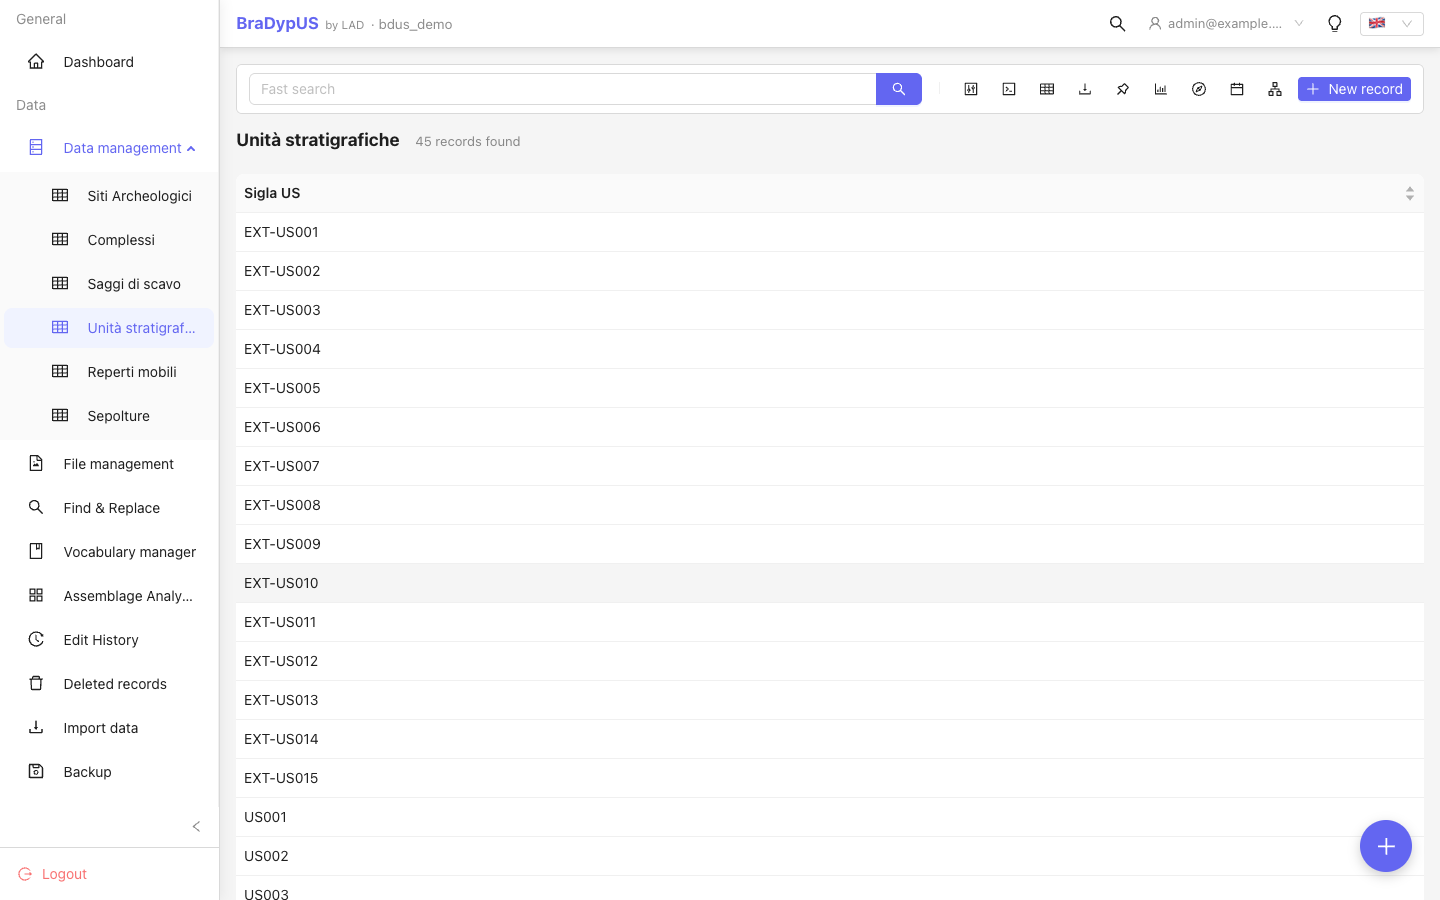
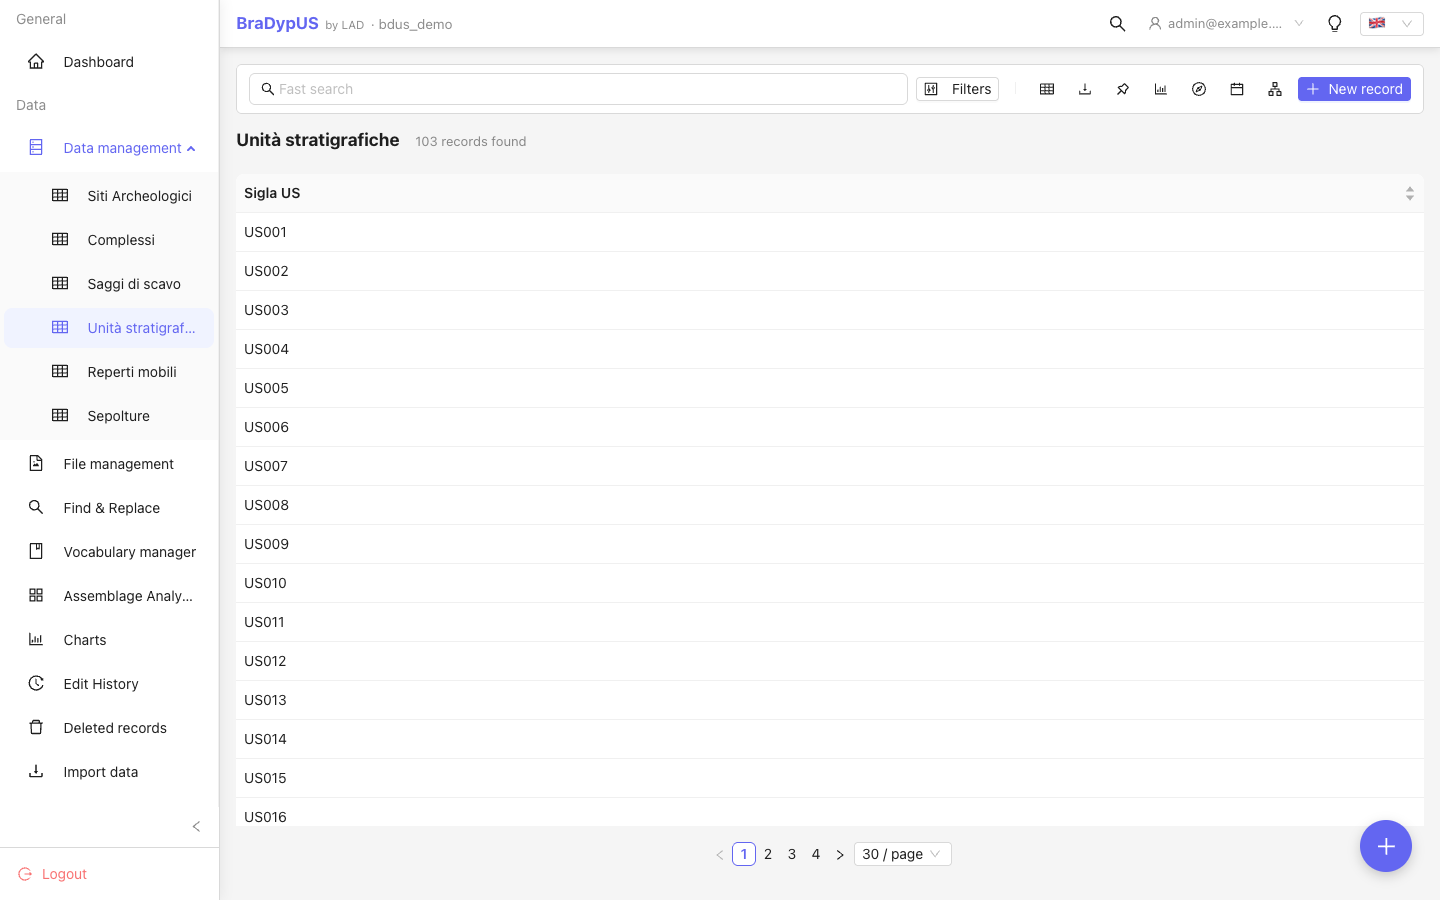
docs(guide): the query bar, nested filter groups, chips, small screens; new screenshots
search.md rewritten (text search, Filters with Builder/SQL, groups, chips,
phone layout, saved searches, persistence); crud, index, charts, preview-config
and export updated; screenshots of the old toolbar replaced (dataview-list,
search-fast/advanced/sql, export-toolbar) and search-chips, search-mobile,
record-nav added.

diff --git a/bdus-docs/guide/usage/search.md b/bdus-docs/guide/usage/search.md
@@ -4,79 +4,181 @@ title: Search & filter
 
 # Search & filter <Badge type="tip" text="v5.0.0" />
 
-BraDypUS offers three search modes, all accessible from the DataView toolbar.
+The record list has **one query bar** at the top. Type in it to search, or open
+**Filters** to build a precise query. They are alternatives — one search at a
+time — and whichever you use, the result is the same list: sortable, exportable,
+and the starting point for the map, the charts and the Harris Matrix.
 
-## Fast search
+![The record list with the query bar: a text box, the Filters button and the result actions](/images/v5/usage/dataview-list.png)
 
-Type in the search bar at the top of the record list. The query is matched
-against all [preview fields](/guide/setup/preview-config) using a
-case-insensitive `LIKE` search.
+## Text search <Badge type="tip" text="v5.14.0" />
 
-![DataView with text typed in the fast-search bar and filtered results in the list](/images/v5/usage/search-fast.png)
+Type in the box. After a short pause (and from two characters on) the list
+updates by itself — there is no search button. Press **Enter** to search without
+waiting, and clear the box (the **×** in it) to see every record again.
 
-Fast search is designed for quick lookups. For more precise filtering use
-Advanced search.
+The text is matched against all the table's
+[preview fields](/guide/setup/preview-config), ignoring upper and lower case.
 
-## Advanced search
+![Text typed in the query bar and the list narrowed to the matching records](/images/v5/usage/search-fast.png)
 
-Click **Advanced** in the toolbar to open the filter builder. Each row defines
-one condition:
+A newer search always replaces the one still running, so a slow answer can never
+overwrite fresher results.
 
-| Column | Description |
+Text search is meant for quick lookups. To combine several conditions, or to
+search fields that are not preview fields, use **Filters**.
+
+## Filters
+
+The **Filters** button opens a panel with two tabs, **Builder** and **SQL**.
+
+::: tip One search at a time
+The text box and the filters are alternatives. Opening **Filters** empties the
+text box and disables it; it stays disabled while a filter is applied (it says
+so, for example *3 conditions active*). To type again, remove the filter.
+:::
+
+### The Builder
+
+The Builder is a list of **conditions**. Each one says:
+
+| Part | Meaning |
 |---|---|
-| **Field** | Any field from the table or its plugin tables |
-| **Operator** | How to compare (see table below) |
-| **Value** | The value to compare against |
-| **Connector** | `AND` / `OR` — how this row combines with the next |
+| **Field** | Any field of the table, or of its plugin tables |
+| **Operator** | How to compare (see below) |
+| **Value** | What to compare with — the box suggests values already in the data |
 
-![Advanced search panel with two filter rows visible, each with a field dropdown and operator](/images/v5/usage/search-advanced.png)
+![The Filters panel with a nested group: Tipo US is exactly Strato AND (Sigla US starts with US00 OR Sigla US starts with US01)](/images/v5/usage/search-advanced.png)
 
-### Operators
+Add conditions with **Add condition**; remove one with the **−** at the end of
+its row. **Apply** runs the query and closes the panel; **Close** leaves the
+panel without changing the current results.
+
+#### All, or at least one
+
+At the top of the Builder you choose how the conditions combine:
+
+- **all** — a record must satisfy every condition (`AND`);
+- **at least one** — a record needs to satisfy only one (`OR`).
+
+#### Groups <Badge type="tip" text="v5.14.0" />
+
+For queries such as *"in Colle Oppio, and either a fill or a layer"* a single
+choice is not enough: the conditions need **parentheses**. In the Builder those
+are **groups**. A group is a box inside the query with its own *all / at least
+one* choice:
+
+```text
+Site is exactly Colle Oppio
+  AND
+  ( Type is exactly Fill   OR   Type is exactly Layer )
+```
+
+Build it with the buttons on the rows — no dragging:
+
+| Button | What it does |
+|---|---|
+| **Add sub-group** | Adds a group (with two empty conditions) inside the current one |
+| **⇥** (*group with the row above*) | Puts the row together with the one above it in a new group, or moves it into the group right above. The new group uses the *opposite* choice (*at least one* inside an *all*, and the reverse), so grouping changes the meaning |
+| **⇤** (*take out of the group*) | Moves the row one level up, after its group |
+| **Ungroup** (in a group's header) | Dissolves the group: its rows move up a level |
+| **Trash** (in a group's header) | Deletes the group with everything in it |
+
+A group left with a single row dissolves by itself, an empty group disappears,
+and groups can be nested up to three levels deep.
+
+Under the conditions, **Equivalent to** writes the whole query in words with its
+parentheses, so you can check you built what you meant:
+
+```text
+Equivalent to: Tipo US is exactly Strato AND (Sigla US starts with US00 OR Sigla US starts with US01)
+```
+
+#### Operators
 
 | Operator | Meaning |
 |---|---|
-| `contains` | Field value contains the text (case-insensitive) |
+| `contains` | The field contains the text (case-insensitive) |
 | `is exactly` | Exact match |
-| `does not contain` | Field value does not contain the text |
-| `starts with` | Field value starts with the text |
-| `ends with` | Field value ends with the text |
-| `is empty` | Field is NULL or empty string |
-| `is not empty` | Field has a non-empty value |
-| `>` | Greater than (numeric or date) |
-| `<` | Less than (numeric or date) |
+| `does not contain` | The field does not contain the text |
+| `starts with` | The field starts with the text |
+| `ends with` | The field ends with the text |
+| `does not start with` | The field does not start with the text |
+| `does not end with` | The field does not end with the text |
+| `is empty` | The field is empty |
+| `is not empty` | The field has a value |
+| `is bigger than` | Greater than (numbers and dates) |
+| `is smaller than` | Less than (numbers and dates) |
 
-Add rows with **Add condition** and remove them with the trash icon.
-Click **Search** to apply. Click **Reset** to clear all filters.
+### SQL
 
-## SQL expert search
-
-Click **SQL** in the toolbar to enter a raw SQL `WHERE` clause.
-This mode is available to admin users only.
+The **SQL** tab takes the `WHERE` part of a query — the condition only, without
+the word `WHERE`:
 
 ```sql
 sigla LIKE 'US%' AND periodo = 'Basso Medioevo'
 ```
 
-![SQL expert search panel with a raw SQL clause typed in the input box](/images/v5/usage/search-sql.png)
+![The SQL tab of the Filters panel with a condition typed in](/images/v5/usage/search-sql.png)
 
-::: warning
-SQL expert search is powerful but bypasses the field-level validation. Only
-use it if you know the exact column names and value formats.
-:::
+It is available to every user who can read the table. Because the text goes to
+the database as it is:
+
+- values are **not** converted to the column's real type: comparing a number
+  with a text column may fail on PostgreSQL (write `context_id::integer > 200`,
+  or compare with a quoted string);
+- for safety, the words `update`, `delete`, `insert`, `create`, `drop`, `alter`,
+  `truncate`, `execute`, `file` and `index`, and the semicolon, are **removed**
+  from the query **wherever they appear, quoted text included**. A condition
+  such as `descrizione LIKE '%file%'` therefore does not search for "file".
+  Use the Builder for text that contains those words.
+
+## What is applied <Badge type="tip" text="v5.14.0" />
+
+Everything applied from **Filters** is shown under the query bar as **chips**,
+one for each condition — a group is a single chip with its parentheses:
+
+![The query bar with two chips and the Filters button showing three conditions](/images/v5/usage/search-chips.png)
+
+- The **×** on a chip removes that condition (or group) and runs what is left;
+  removing the last one clears the search.
+- **Remove filters** clears them all.
+- The number on the **Filters** button counts the conditions applied.
+
+To change a query, open **Filters** again: the Builder (or SQL) shows what is
+applied, ready to edit.
+
+## On small screens <Badge type="tip" text="v5.14.0" />
+
+Under about 640 px of width the query bar keeps what matters: the text box, the
+**Filters** button and a **⋯** menu. Saved searches, the column picker, export,
+chart, map, timeline and Harris Matrix are in the menu, and *New record* is the
+round **+** button.
+
+![The query bar on a phone: text box, Filters and the menu, with the chips below](/images/v5/usage/search-mobile.png)
+
+## Saved searches
+
+The pin icon (or **Saved searches** in the **⋯** menu) opens the saved
+searches. You can save the search that is applied — from the Builder or SQL —
+under a name, and run it again later or share it with other users. Saving
+stores the filter, not the text typed in the box.
 
 ## Persistent filters
 
-The active filter is stored in the URL as a query parameter. Copying the URL
-and sharing it (or using Back/Forward in the browser) restores the exact search
-state.
+What you applied is kept in the page address. Copy it, bookmark it, or use the
+browser's Back and Forward and you get exactly the same list again. This holds
+for text, Builder and SQL searches, and for links created by older versions.
 
-The Harris Matrix and Geoface views inherit the active filter from DataView — the
-matrix or map will show only the records that match the current filter.
+Other views inherit the applied search: the **Harris Matrix** and the
+**map** show only the records that match it, **Create chart from this view**
+starts a chart over them, and **Export** downloads only them (see
+[Data export](/guide/usage/export)).
 
-## Cross-table (plugin) search
+## Searching other tables' fields
 
-Advanced search lets you filter by fields in **plugin tables** as well as the main
-table. Plugin fields are listed under a labelled group in the field dropdown.
+The Builder can filter by fields of **plugin tables** as well as of the main
+table; plugin fields are listed under a labelled group in the field dropdown.
 
 ## Searching reference fields <Badge type="tip" text="v5.1.0" />
 

diff --git a/bdus-docs/guide/usage/crud.md b/bdus-docs/guide/usage/crud.md
@@ -16,12 +16,16 @@ Controls in the DataView toolbar:
 
 | Control | Action |
 |---|---|
-| **New** | Create a new record |
-| **Export** | Download visible records as CSV, XLSX or JSON |
+| **Query bar** | Type to search the preview fields; the list follows as you type |
+| **Filters** | Open the Builder (nested AND / OR conditions) or the SQL tab — see [Search & filter](/guide/usage/search) |
 | **Columns** | Toggle which columns are visible |
-| **Harris Matrix** | Open the stratigraphic matrix (only for tables with RS configured) |
-| **Search bar** | Fast text search across preview fields |
-| **Advanced** | Open the advanced search panel |
+| **Export** | Download the matching records as CSV, XLSX or JSON |
+| **Saved searches** | Run, save or share a search |
+| **Chart**, **Map**, **Timeline**, **Harris Matrix** | Open the matching view over the records of the current search (the last two only for tables that have the plugin) |
+| **New record** | Create a new record |
+
+On small screens everything but the query bar and **Filters** moves into a
+**⋯** menu, and **New record** is the round **+** button.
 
 Click any row to open that record in **RecordView**.
 
@@ -44,9 +48,9 @@ When you open a record by clicking a row in the record list, the header shows
 a small navigation bar — **‹ 61 / 103 ›** — that lets you step through the
 records of *that list* without going back to it each time.
 
-- The order is exactly the one the list was showing: its **sort**, **fast
-  search**, **advanced search / filter** and **expert query**. The bar reaches
-  every matching record, not only the ones on the page you clicked from.
+- The order is exactly the one the list was showing: its **sort** and its
+  **search** (text, Builder, SQL or a link's filter). The bar reaches every
+  matching record, not only the ones on the page you clicked from.
 - The **←** and **→** keys do the same, as long as no field has the focus.
 - The bar is hidden while you are **editing** a record: save or cancel first.
 - It appears only when you arrive **from the list**. A record opened from a
@@ -58,6 +62,8 @@ records of *that list* without going back to it each time.
   return to the list, whatever number of records you stepped through.
 - Lists with more than **5000** matching records are walked only up to the
   5000th, and the counter shows it (**‹ 12 / 5000+ ›**).
+
+![A record opened from a filtered list: the header shows ‹ 3 of 48 › and the arrows](/images/v5/usage/record-nav.png)
 
 The position is computed when you open the first record: if other users add or
 delete records meanwhile, the order you are walking does not change until you

diff --git a/bdus-docs/guide/usage/charts.md b/bdus-docs/guide/usage/charts.md
@@ -53,9 +53,11 @@ name and click **Save**.
 The wizard itself doesn't build filters — a chart's table is fixed once
 created, and picking a filter from scratch there would just duplicate
 DataView's own search UI. Instead, build the filter where you already build
-every other search: open the table in **Data management**, run a fast,
-advanced, or SQL-expert search, then click the chart icon
-(**Create chart from this view**) in the search toolbar.
+every other search: open the table in **Data management**, run a Builder or
+SQL search from **Filters**, then click the chart icon
+(**Create chart from this view**) in the search toolbar (or in the **⋯** menu
+on a small screen). A plain text search is not carried over to the chart: use
+the Builder to make a search a chart can start from.
 
 ![The wizard opened from a search: the table is locked, a note confirms the chart uses that search's filter, and the filter itself is shown as JSON](/images/v5/usage/chart-from-search.png)
 

diff --git a/bdus-docs/guide/usage/export.md b/bdus-docs/guide/usage/export.md
@@ -17,6 +17,21 @@ the active search filter — only matching records are exported.
 
 ![DataView toolbar with the Export button highlighted and the format dropdown open](/images/v5/usage/export-toolbar.png)
 
+### What "the active filter" covers
+
+The export takes exactly what the list is showing: a text search, a Builder
+search (nested groups included), an SQL search, or the filter a link from
+another record opened. Sorting and which columns are shown do not matter — the
+file always has every column of the table.
+
+::: warning Errors are errors
+If the search cannot be read — a hand-edited link with broken JSON, an unknown
+`qt` value, a `qt` without its `q` — the export does not guess: it stops with
+`invalid_parameters` and names the offending parameter, instead of quietly
+downloading the whole table. The same applies to the API
+(`GET /api/records/{tb}/export`).
+:::
+
 ## Formats
 
 | Format | Notes |

diff --git a/bdus-docs/guide/setup/preview-config.md b/bdus-docs/guide/setup/preview-config.md
@@ -25,8 +25,9 @@ In DataView the user can show or hide individual columns using the **column togg
 button in the toolbar. The toggler starts with the preview fields visible but the
 user's selection is remembered per session.
 
-## Fast search scope
+## Text search scope
 
-The fast-search input searches all preview fields using a case-insensitive `LIKE`
-query. Fields not in the preview list are not searched by fast search (but are
-searchable in the advanced search panel).
+The text box of the query bar searches all preview fields using a
+case-insensitive `LIKE` query. Fields not in the preview list are not searched
+by the text box (but can be searched in the Builder: see
+[Search & filter](/guide/usage/search)).

diff --git a/bdus-docs/guide/usage/index.md b/bdus-docs/guide/usage/index.md
@@ -32,7 +32,7 @@ to open the [command palette](/guide/usage/command-palette) from any screen.
 | Browse and search records | DataView (Data → Data management) |
 | Create a new record | DataView → **New** button, or the FAB |
 | Edit a record | RecordView → **Edit** button |
-| Search with filters | DataView → search bar or Advanced search |
+| Search with filters | DataView → query bar, or **Filters** (Builder / SQL) |
 | Export data | DataView toolbar → Export button |
 | Import data | Sidebar → Import data |
 | View the Harris Matrix | DataView toolbar → Harris Matrix button |
